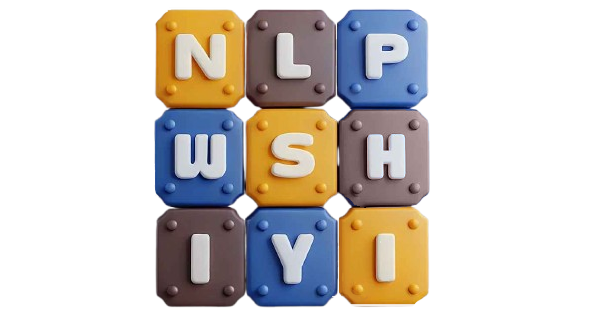
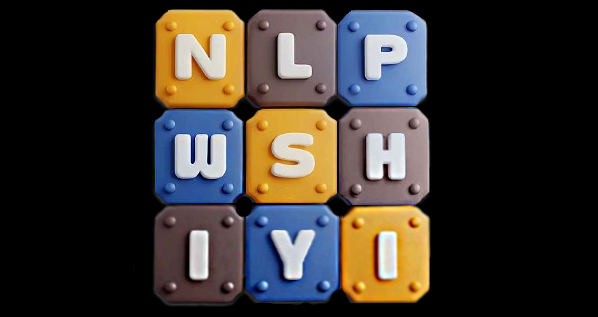
Deploying to main from  @ 480c6d5dd33185b446767ffa32da0e929189bed3 🚀

diff --git a/index.html b/index.html
@@ -1,4 +1,4 @@
-<!doctype html> <html lang=en > <meta charset=UTF-8 > <meta name=viewport  content="width=device-width, initial-scale=1"> <link rel=stylesheet  href="/nlpwme/libs/highlight/styles/github.min.css"> <link rel=stylesheet  href="/nlpwme/css/franklin.css"> <link rel=stylesheet  href="https://fonts.googleapis.com/css?family=Source+Sans+Pro:400,700,400italic|Source+Code+Pro:400,700" type="text/css"> <link rel=stylesheet  href="/nlpwme/css/font-awesome.min.css"> <link rel=stylesheet  href="/nlpwme/css/celeste.min.css"> <link rel=icon  type="image/png" sizes=200x200  href="/nlpwme/assets/robot.png"> <link rel=icon  type="image/png" sizes=152x152  href="/nlpwme/assets/robot_smaller_152x152.png"> <link rel=icon  type="image/x-icon" sizes=64x64  href="/nlpwme/assets/robot_smaller_64x64.png"> <link rel=icon  type="image/x-icon" sizes=32x32  href="/nlpwme/assets/robot_smaller_32x32.png"> <link rel=icon  type="image/png" sizes=64x64  href="/nlpwme/assets/robot_smaller_64x64.png"> <link rel=icon  type="image/png" sizes=32x32  href="/nlpwme/assets/robot_smaller_32x32.png"> <title>NLPwShiyi | Natural Language Processing with Shiyi</title> <nav id=navbar  class=navigation  role=navigation > <input id=toggle1  type=checkbox  /> <label class=hamburger1  for=toggle1 > <div class=top ></div> <div class=meat ></div> <div class=bottom ></div> </label> <nav class="topnav mx-auto" id=myTopnav > <div class=dropdown > <button class=dropbtn >Comp Ling <i class="fa fa-caret-down"></i> </button> <div class=dropdown-content > <a href="/nlpwme/modules/1b-info-theory">Information Theory</a> <a href="/nlpwme/modules/1c-noisy-channel-model">The Noisy Channel Model</a> <a href="/nlpwme/modules/1d-finite-automata">FSAs and FSTs</a> <a href="/nlpwme/modules/1e-mutual-info">Mutual Information</a> <a href="/nlpwme/modules/1f-cky-algorithm">CKY Algorithm</a> <a href="/nlpwme/modules/1g-viterbi">Viterbi Algorithm</a> <a href="/nlpwme/modules/2b-markov-processes">Markov Processes</a> <a href="/nlpwme/modules/1h-semantics">Logic and Problem Solving</a> <a href="/nlpwme/modules/1j-bayesian">Bayesian Inference</a> </div> </div> <div class=dropdown > <button class=dropbtn  >ML / DL <i class="fa fa-caret-down"></i> </button> <div class=dropdown-content > <a href="/nlpwme/modules/2e-jax">Jacobian Matrices Derivation</a> <a href="/nlpwme/modules/2d-automatic-differentiation">Automatic Differentiation</a> <a href="/nlpwme/modules/2f-loss-functions">Stochastic GD</a> <a href="/nlpwme/modules/2c-word2vec">Word2Vec</a> <a href="/nlpwme/modules/2g-batchnorm">Batchnorm</a> <a href="/nlpwme/modules/2j-perplexity">Perplexity</a> <a href="/nlpwme/modules/2h-dropout">Dropout</a> <a href="/nlpwme/modules/2i-depth">Depth: Pros and Cons</a> <a href="/nlpwme/modules/2k-VAE">Variational Autoencoders</a> <a href="/nlpwme/modules/2l-dnns">DNNs(RNNs, CNNs, (Bi)-LSTM)</a> </div> </div> <a href="/nlpwme/" class=active >Intro </a> <div class=dropdown > <button class=dropbtn  >SOTA <i class="fa fa-caret-down"></i> </button> <div class=dropdown-content > <a href="/nlpwme/modules/3a-transformers"> GPT (Generative Pre-trained Transformer) </a> <a href="/nlpwme/modules/3b-xlnet"> XLNet (Generalized Autoregressive Pretraining) </a> <a href="/nlpwme/modules/3c-roberta"> RoBERTa (Robustly optimized BERT approach) </a> <a href="/nlpwme/modules/3d-t5"> T5 (Text-to-Text Transfer Transformer) </a> <a href="/nlpwme/modules/3e-clip"> CLIP (Contrastive Language-Image Pre-training) </a> </div> </div> <div class=dropdown > <button class=dropbtn  >Hands-on <i class="fa fa-caret-down"></i> </button> <div class=dropdown-content > <a href="/nlpwme/modules/4a-mlp-from-scratch">MLP from Scratch</a> <a href="/nlpwme/modules/4b-generative-adversarial-networks">GAN Example </a> <a href="/nlpwme/modules/4c-vae-mnist">VAE for MNIST</a> <a href="/nlpwme/modules/4d-bi-lstm-crf">BI-LSTM-CRF Seq2Seq</a> <a href="/nlpwme/modules/4e-c4fe-tbip">Measuring Subjectivity with VAE</a> <a href="/nlpwme/modules/4g-etl-job">Serverless ETL Example</a> <a href="/nlpwme/modules/4h-ocr-data-aug">OCR Text Augmentation</a> <a href="/nlpwme/modules/4i-neo4j-gql">Neo4j GQL Example</a> </div> </div> </nav> </nav> <script src="../assets/js/custom.js"></script> <div class=franklin-content ><p><img src="./assets/nlpwme2-m2.png" alt=intro  /></p> <h1 id=understanding_natural_language_processing_with_me ><a href="#understanding_natural_language_processing_with_me" class=header-anchor >Understanding Natural Language Processing with Me&#33;</a></h1> <p>Hi, I’m Shiyi. Welcome to my technical blog. Please check out this <a href="https://shiyis.github.io/nlp-docs">page</a> for a more detailed account of my journey with respect to learning Natural Language Processing. Here I will only be documenting the gists. I will be presenting everything I have learned so far, including important concepts, necessary code snippets, and more. I am by no means an expert in this subject, but I have gone through extensive studies and training in the fields and subfields related to have a good grasp of what’s important.</p> <p>Areas that I have dabbled in,</p> <pre><code class="julia hljs">→ General Linguistics
+<!doctype html> <html lang=en > <meta charset=UTF-8 > <meta name=viewport  content="width=device-width, initial-scale=1"> <link rel=stylesheet  href="/nlpwme/libs/highlight/styles/github.min.css"> <link rel=stylesheet  href="/nlpwme/css/franklin.css"> <link rel=stylesheet  href="https://fonts.googleapis.com/css?family=Source+Sans+Pro:400,700,400italic|Source+Code+Pro:400,700" type="text/css"> <link rel=stylesheet  href="/nlpwme/css/font-awesome.min.css"> <link rel=stylesheet  href="/nlpwme/css/celeste.min.css"> <link rel=icon  type="image/png" sizes=200x200  href="/nlpwme/assets/robot.png"> <link rel=icon  type="image/png" sizes=152x152  href="/nlpwme/assets/robot_smaller_152x152.png"> <link rel=icon  type="image/x-icon" sizes=64x64  href="/nlpwme/assets/robot_smaller_64x64.png"> <link rel=icon  type="image/x-icon" sizes=32x32  href="/nlpwme/assets/robot_smaller_32x32.png"> <link rel=icon  type="image/png" sizes=64x64  href="/nlpwme/assets/robot_smaller_64x64.png"> <link rel=icon  type="image/png" sizes=32x32  href="/nlpwme/assets/robot_smaller_32x32.png"> <title>NLPwShiyi | Natural Language Processing with Shiyi</title> <nav id=navbar  class=navigation  role=navigation > <input id=toggle1  type=checkbox  /> <label class=hamburger1  for=toggle1 > <div class=top ></div> <div class=meat ></div> <div class=bottom ></div> </label> <nav class="topnav mx-auto" id=myTopnav > <div class=dropdown > <button class=dropbtn >Comp Ling <i class="fa fa-caret-down"></i> </button> <div class=dropdown-content > <a href="/nlpwme/modules/1b-info-theory">Information Theory</a> <a href="/nlpwme/modules/1c-noisy-channel-model">The Noisy Channel Model</a> <a href="/nlpwme/modules/1d-finite-automata">FSAs and FSTs</a> <a href="/nlpwme/modules/1e-mutual-info">Mutual Information</a> <a href="/nlpwme/modules/1f-cky-algorithm">CKY Algorithm</a> <a href="/nlpwme/modules/1g-viterbi">Viterbi Algorithm</a> <a href="/nlpwme/modules/2b-markov-processes">Markov Processes</a> <a href="/nlpwme/modules/1h-semantics">Logic and Problem Solving</a> <a href="/nlpwme/modules/1j-bayesian">Bayesian Inference</a> </div> </div> <div class=dropdown > <button class=dropbtn  >ML / DL <i class="fa fa-caret-down"></i> </button> <div class=dropdown-content > <a href="/nlpwme/modules/2e-jax">Jacobian Matrices Derivation</a> <a href="/nlpwme/modules/2d-automatic-differentiation">Automatic Differentiation</a> <a href="/nlpwme/modules/2f-loss-functions">Stochastic GD</a> <a href="/nlpwme/modules/2c-word2vec">Word2Vec</a> <a href="/nlpwme/modules/2g-batchnorm">Batchnorm</a> <a href="/nlpwme/modules/2j-perplexity">Perplexity</a> <a href="/nlpwme/modules/2h-dropout">Dropout</a> <a href="/nlpwme/modules/2i-depth">Depth: Pros and Cons</a> <a href="/nlpwme/modules/2k-VAE">Variational Autoencoders</a> <a href="/nlpwme/modules/2l-dnns">DNNs(RNNs, CNNs, (Bi)-LSTM)</a> </div> </div> <a href="/nlpwme/" class=active >Intro </a> <div class=dropdown > <button class=dropbtn  >SOTA <i class="fa fa-caret-down"></i> </button> <div class=dropdown-content > <a href="/nlpwme/modules/3a-transformers"> GPT (Generative Pre-trained Transformer) </a> <a href="/nlpwme/modules/3b-xlnet"> XLNet (Generalized Autoregressive Pretraining) </a> <a href="/nlpwme/modules/3c-roberta"> RoBERTa (Robustly optimized BERT approach) </a> <a href="/nlpwme/modules/3d-t5"> T5 (Text-to-Text Transfer Transformer) </a> <a href="/nlpwme/modules/3e-clip"> CLIP (Contrastive Language-Image Pre-training) </a> </div> </div> <div class=dropdown > <button class=dropbtn  >Hands-on <i class="fa fa-caret-down"></i> </button> <div class=dropdown-content > <a href="/nlpwme/modules/4a-mlp-from-scratch">MLP from Scratch</a> <a href="/nlpwme/modules/4b-generative-adversarial-networks">GAN Example </a> <a href="/nlpwme/modules/4c-vae-mnist">VAE for MNIST</a> <a href="/nlpwme/modules/4d-bi-lstm-crf">BI-LSTM-CRF Seq2Seq</a> <a href="/nlpwme/modules/4e-c4fe-tbip">Measuring Subjectivity with VAE</a> <a href="/nlpwme/modules/4g-etl-job">Serverless ETL Example</a> <a href="/nlpwme/modules/4h-ocr-data-aug">OCR Text Augmentation</a> <a href="/nlpwme/modules/4i-neo4j-gql">Neo4j GQL Example</a> </div> </div> </nav> </nav> <script src="../assets/js/custom.js"></script> <div class=franklin-content ><p><img src="./assets/nlpwme4.png" alt=intro  /></p> <h1 id=understanding_natural_language_processing_with_me ><a href="#understanding_natural_language_processing_with_me" class=header-anchor >Understanding Natural Language Processing with Me&#33;</a></h1> <p>Hi, I’m Shiyi. Welcome to my technical blog. Please check out this <a href="https://shiyis.github.io/nlp-docs">page</a> for a more detailed account of my journey with respect to learning Natural Language Processing. Here I will only be documenting the gists. I will be presenting everything I have learned so far, including important concepts, necessary code snippets, and more. I am by no means an expert in this subject, but I have gone through extensive studies and training in the fields and subfields related to have a good grasp of what’s important.</p> <p>Areas that I have dabbled in,</p> <pre><code class="julia hljs">→ General Linguistics
 → Symbolic Computational Linguistics
 → Statistical Natural Language Processing
 → State of the Art Large Language Modeling</code></pre> <h3 id=the_subject_matter ><a href="#the_subject_matter" class=header-anchor ><strong>The Subject Matter</strong></a></h3> <p>What do we mean by Natural Language Processing? If we do a little googling and researching, it&#39;s very intuitive that natural language processing involves a set of solutions to various natural human language tasks. The most common ones are</p> <pre><code class="plaintext hljs">→ Sentiment analysis
